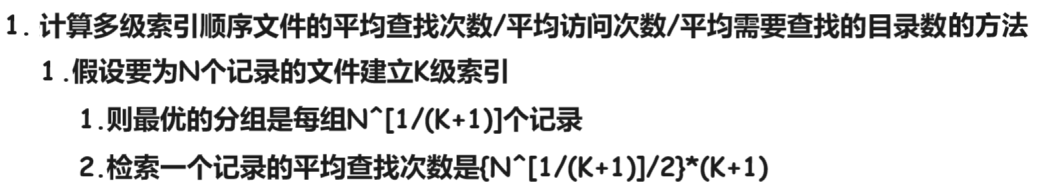
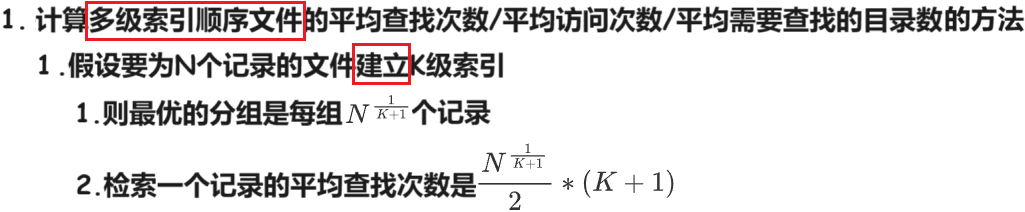
240103

diff --git a/04 每日一题/01 820/05 23/02 操作系统部分/02 填空题/02 多级索引顺序文件 计算平均查找次数 240103/01 Doc.md b/04 每日一题/01 820/05 23/02 操作系统部分/02 填空题/02 多级索引顺序文件 计算平均查找次数 240103/01 Doc.md
@@ -1,6 +1,6 @@
 # 00 背诵
 
-<img src="https://cvp.oss-cn-shanghai.aliyuncs.com/picgo/202401031624999.png" alt="image-20240103162407949" style="zoom:50%;" />
+<img src="https://cvp.oss-cn-shanghai.aliyuncs.com/picgo/202401031713888.png" alt="image-20240103171326831" style="zoom:50%;" />
 
 
 
